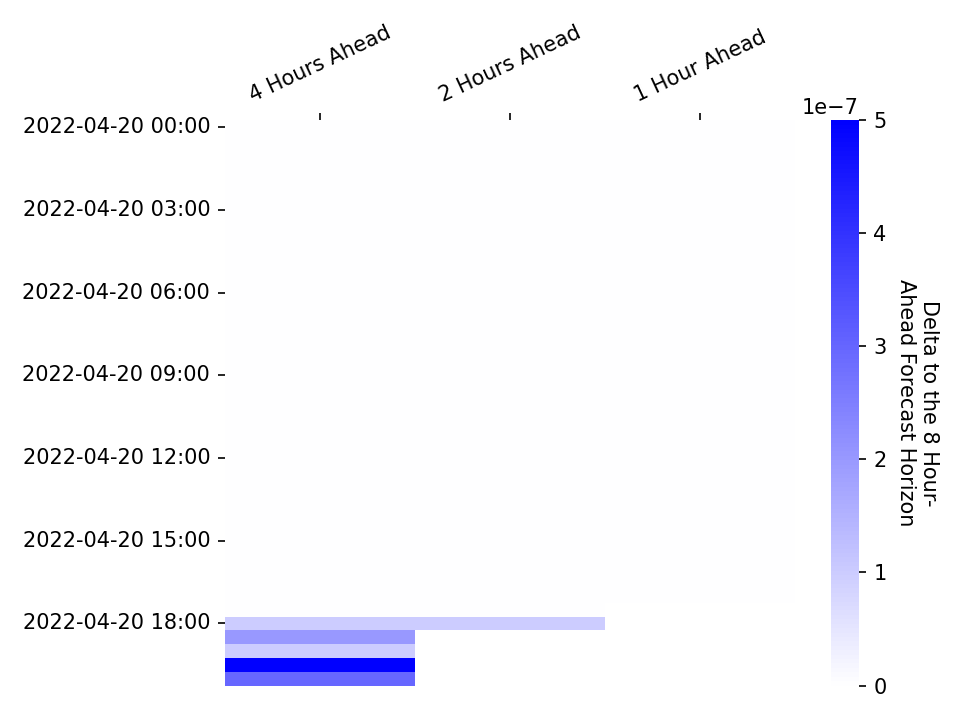
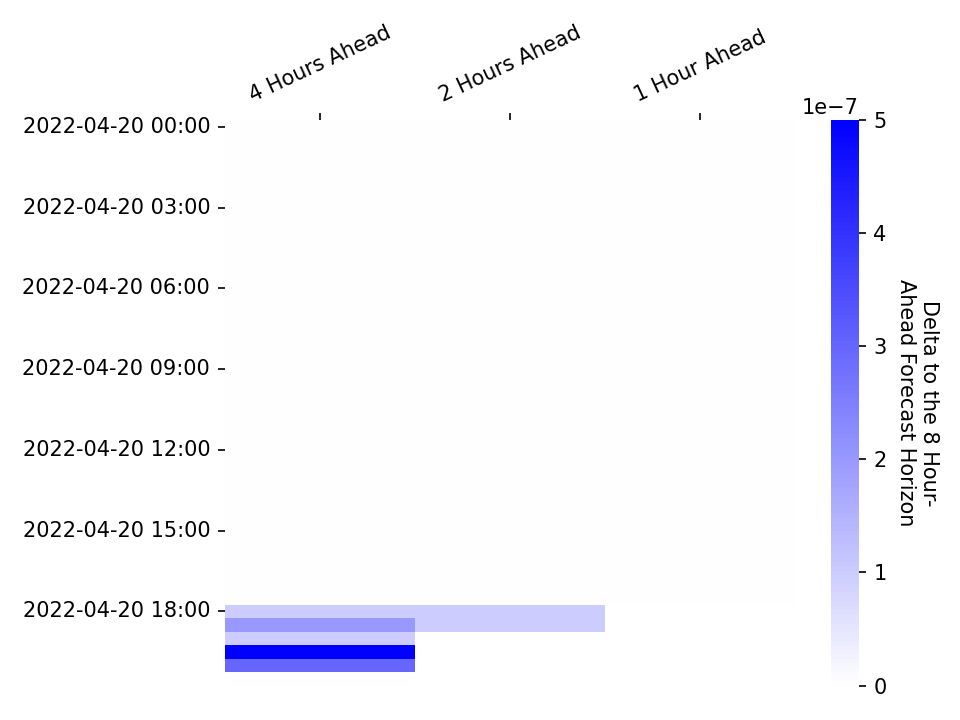
Apply automatic changes

diff --git a/docs/js/map.js b/docs/js/map.js
@@ -144,7 +144,7 @@ document.addEventListener("DOMContentLoaded", function() {
                 follow: 1
             });
             mymap.addControl(sliderControl);
-            sliderControl.startSlider(333);
+            sliderControl.startSlider(334);
         });
     });
 });

diff --git a/docs/visualisations.md b/docs/visualisations.md
@@ -60,7 +60,7 @@ In each settlement period the system operator publishes the de-rated margin fore
 * At 1200 hours on each calendar day for all Settlement Periods for which Gate Closure has not yet passed and which occur within the current Operational Day or the following Operational Day; and
 * At eight, four, two and one hour(s) prior to the beginning of the Settlement Period to which the De-Rated Margin Forecast relates.
 
-These figures will be updated on an hourly basis, the last update was at: 2022-04-20 15:20
+These figures will be updated on an hourly basis, the last update was at: 2022-04-20 15:45
 
 <br>
 
@@ -83,7 +83,7 @@ The following heatmap shows how the more recent de-rated margin forecasts deviat
 
 ### Power Output Map
 
-Last Updated: 2022-04-20 15:20
+Last Updated: 2022-04-20 15:45
 
 This map shows the power output of individual plants connected to the transmission grid as stated in their most recent Physical Notifications. This data can be retrieved through the *PHYBMDATA* BMRS stream, the out-turn data can be viewed one week later through the *B1610* stream. The scrollbar at the top of the map can be used to view how the generation sources have changed their output over the last week, the layer control can be used to toggle on/off the transmission network, and the plants themselves can be clicked to reveal additional information. The plant location data used in this map has been taking from a sister project, [the Power Station Dictionary](https://osuked.github.io/Power-Station-Dictionary/), which aims to link between data about individual power plants.
 
